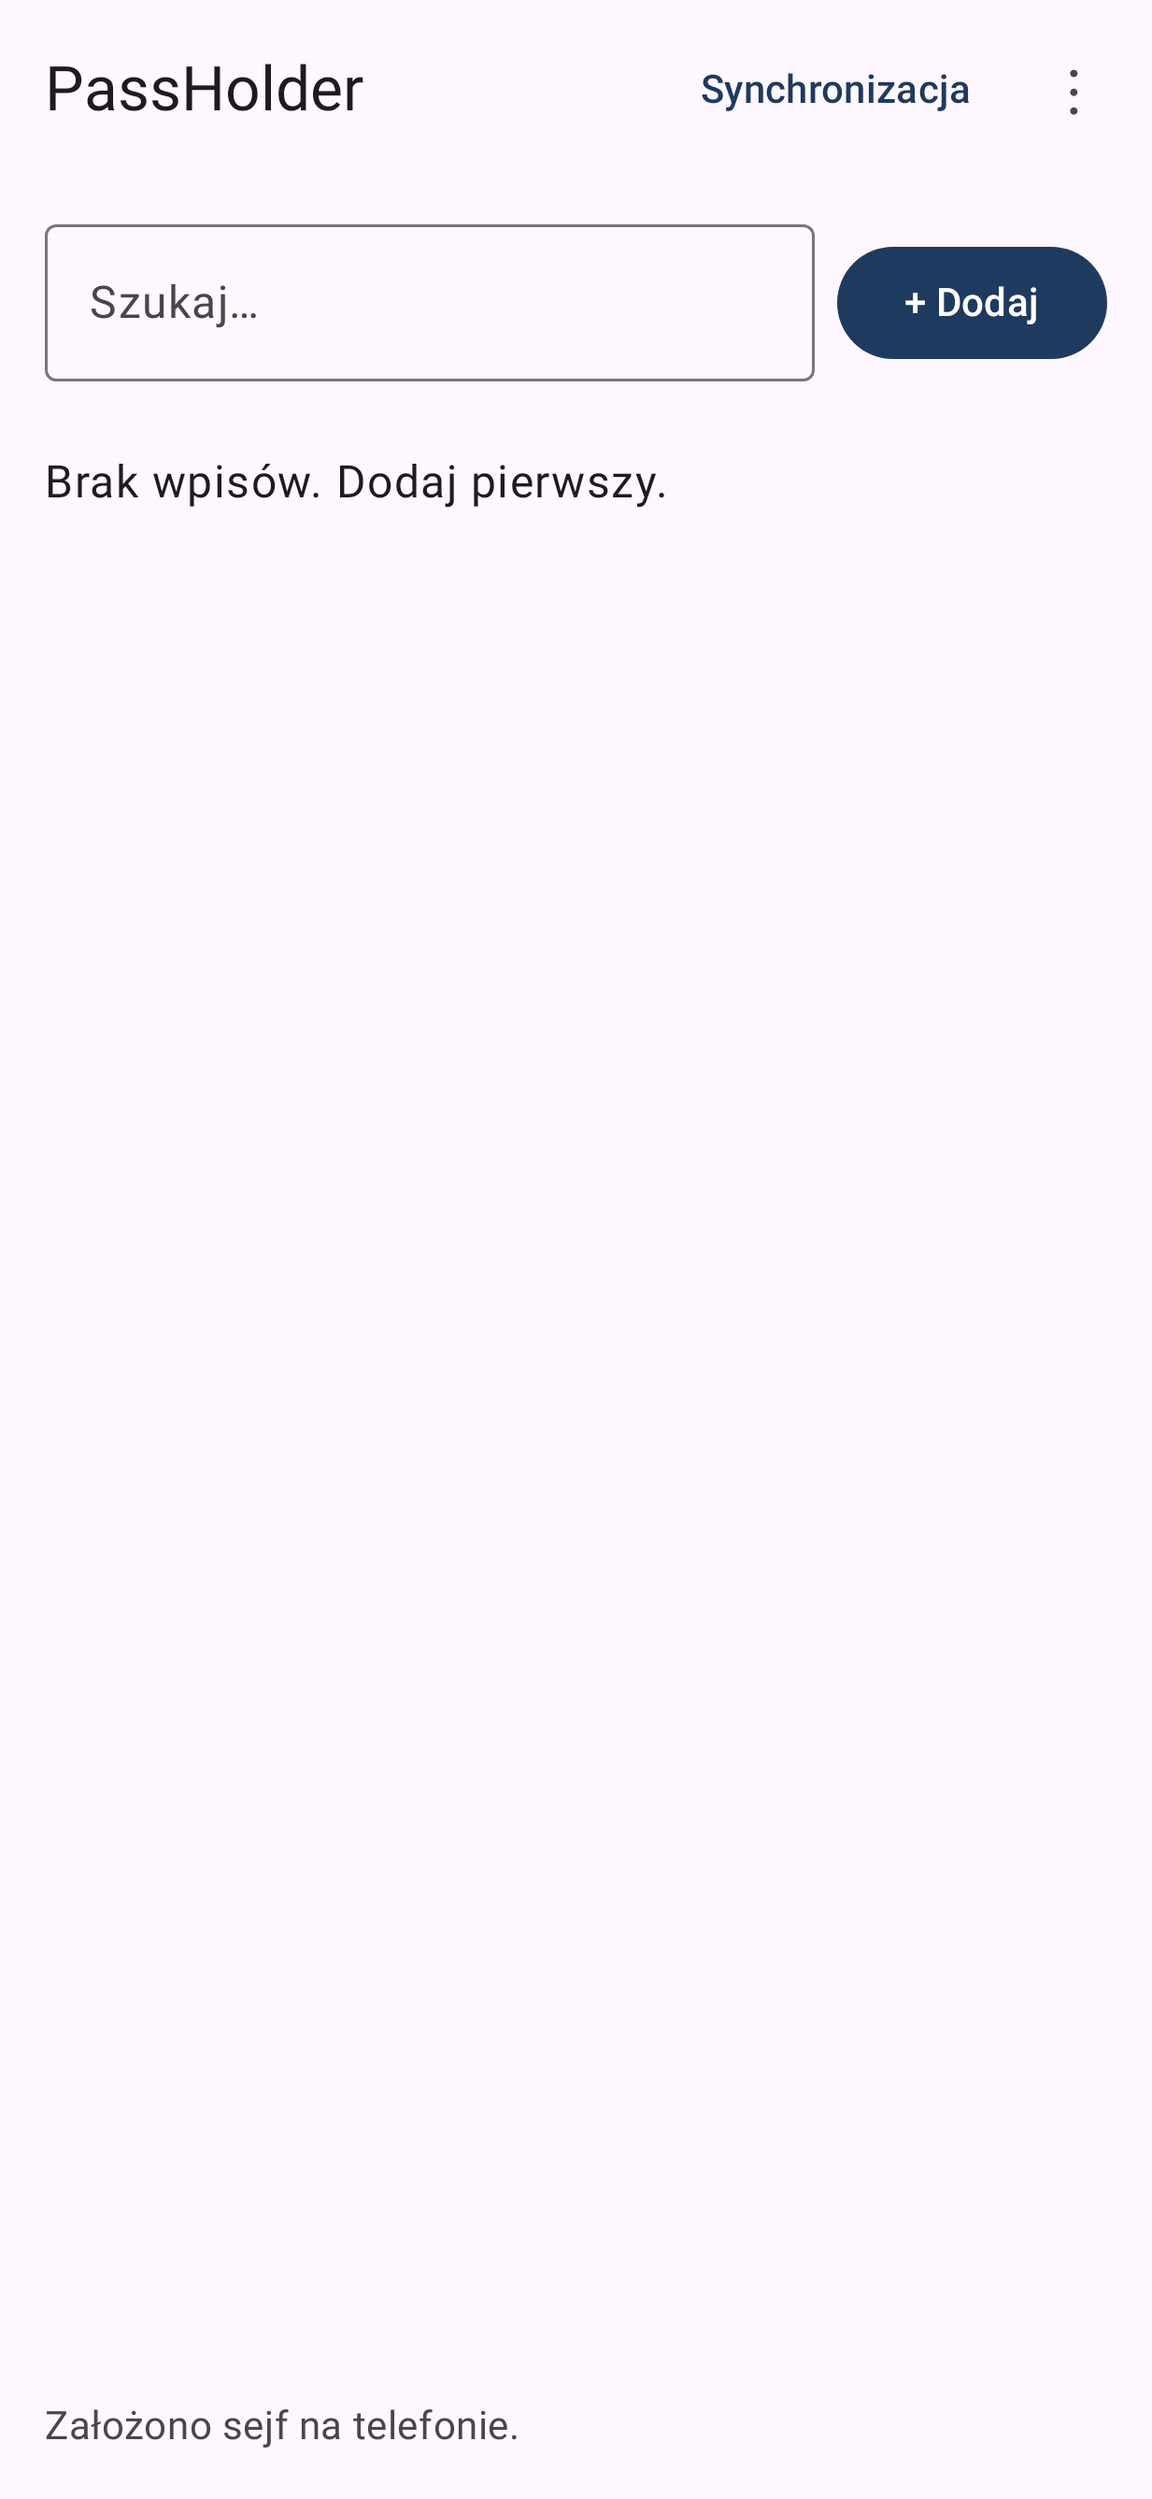
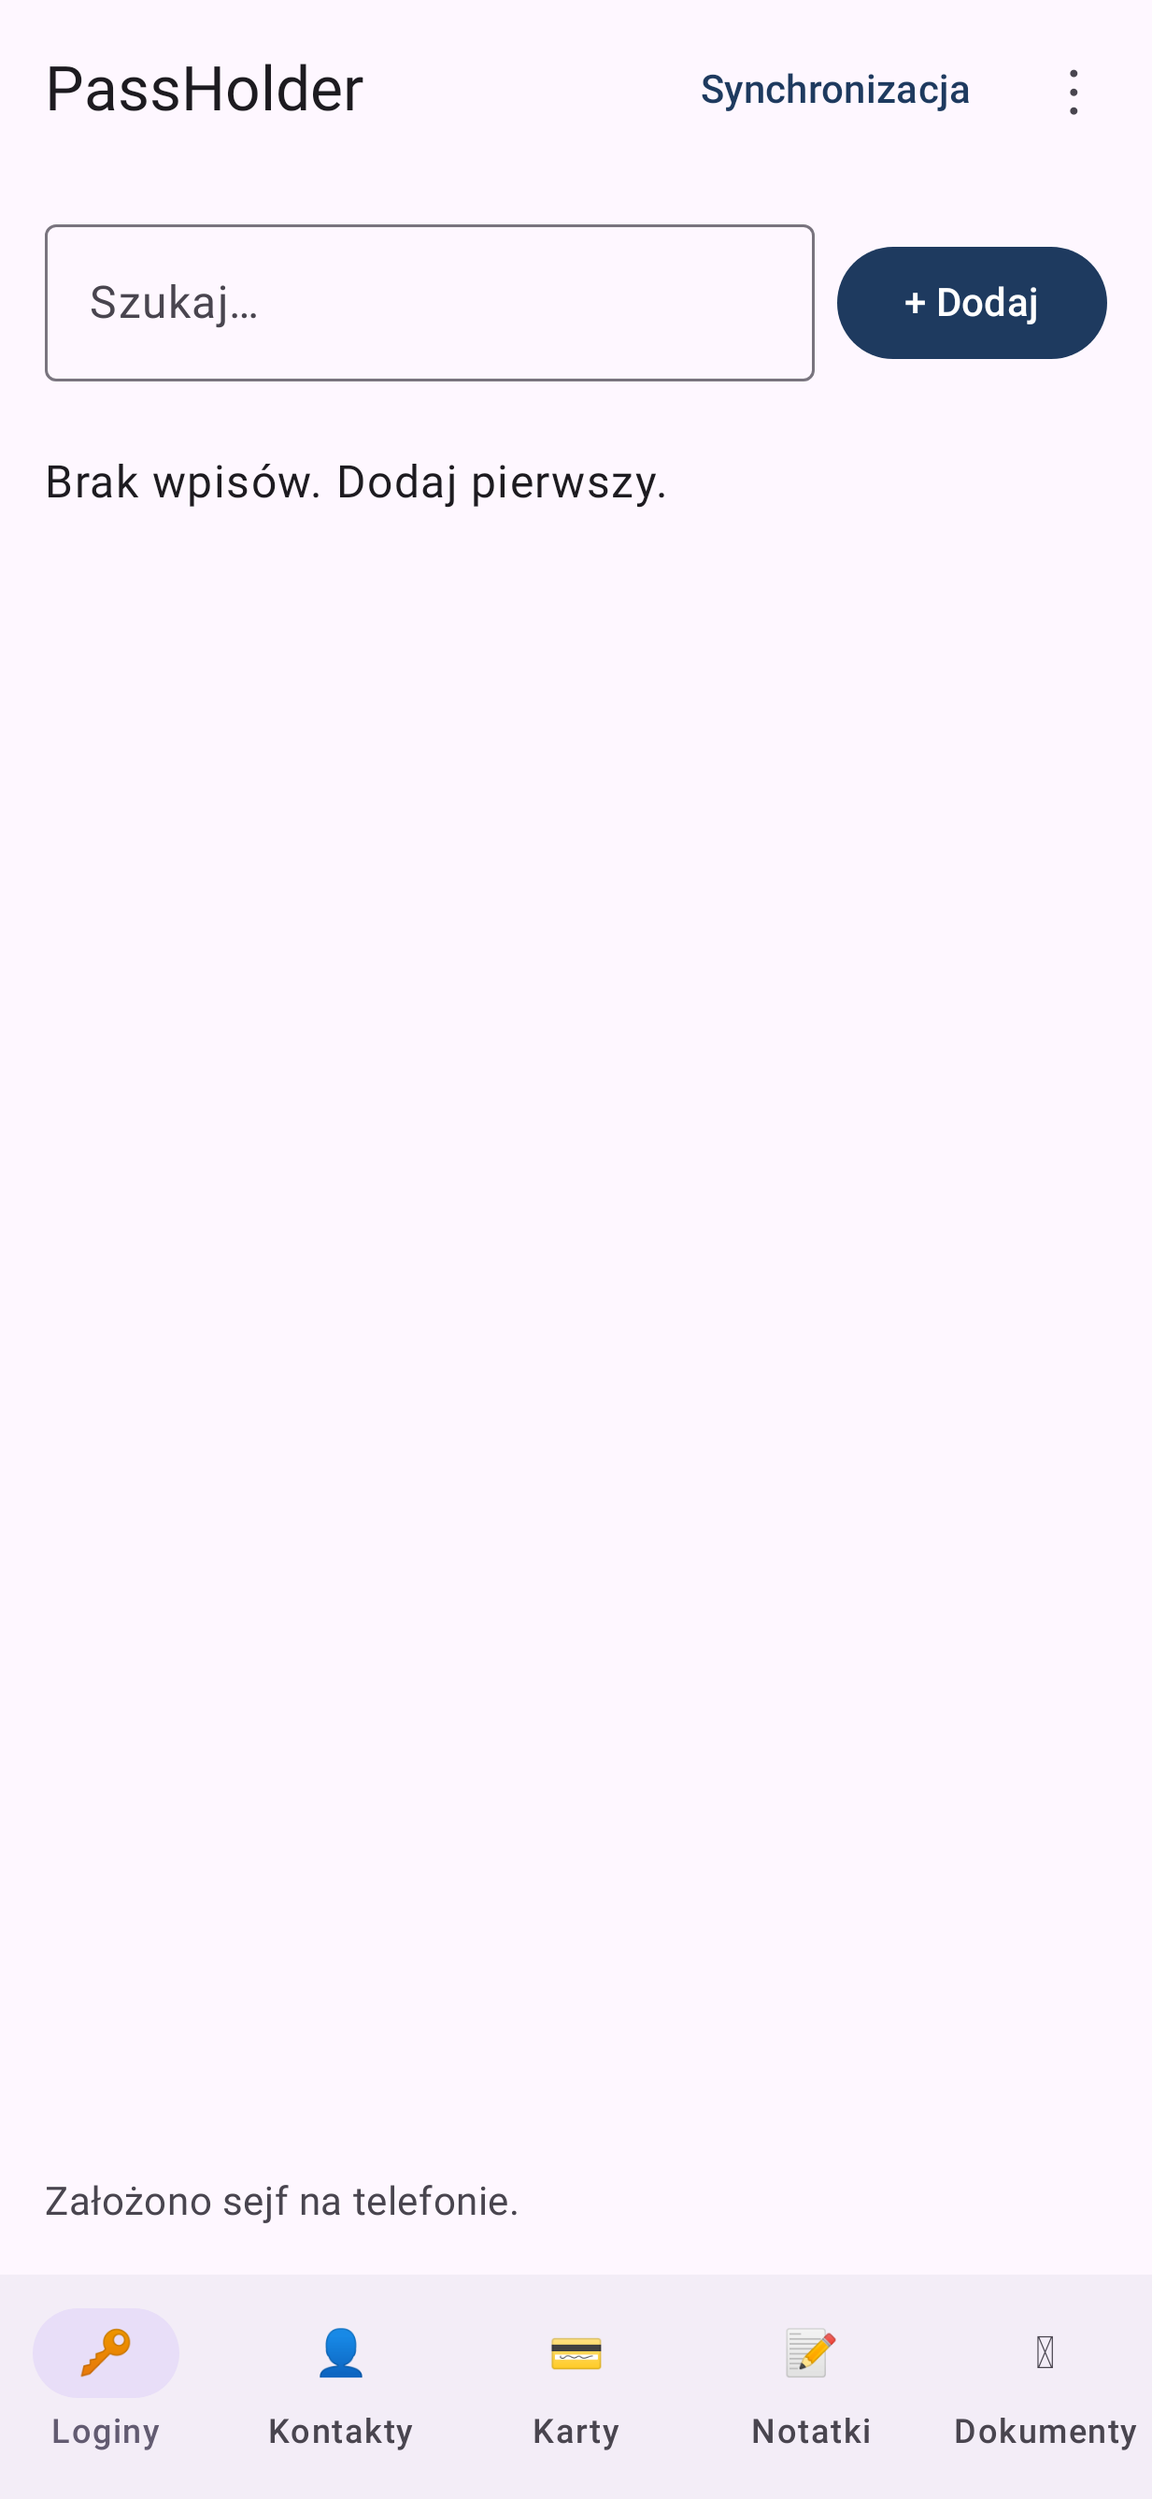
feat(android): bottom navigation tabs per entry type
Claude-Session: https://claude.ai/code/session_01R4dBa3xgA5GXwU78YGB8ca

diff --git a/android/app/src/main/kotlin/io/github/sheking94/passholder/app/ui/ListScreen.kt b/android/app/src/main/kotlin/io/github/sheking94/passholder/app/ui/ListScreen.kt
@@ -4,15 +4,17 @@ import androidx.compose.foundation.clickable
 import androidx.compose.foundation.layout.Arrangement
 import androidx.compose.foundation.layout.Column
 import androidx.compose.foundation.layout.Row
-import androidx.compose.foundation.layout.fillMaxSize
-import androidx.compose.foundation.layout.fillMaxWidth
+import androidx.compose.foundation.layout.WindowInsets
 import androidx.compose.foundation.layout.padding
 import androidx.compose.foundation.lazy.LazyColumn
 import androidx.compose.foundation.lazy.items
 import androidx.compose.material3.Button
 import androidx.compose.material3.HorizontalDivider
 import androidx.compose.material3.MaterialTheme
+import androidx.compose.material3.NavigationBar
+import androidx.compose.material3.NavigationBarItem
 import androidx.compose.material3.OutlinedTextField
+import androidx.compose.material3.Scaffold
 import androidx.compose.material3.Text
 import androidx.compose.material3.TextButton
 import androidx.compose.runtime.Composable
@@ -27,22 +29,38 @@ import androidx.compose.ui.unit.dp
 import io.github.sheking94.passholder.app.AppViewModel
 import io.github.sheking94.passholder.app.UiState
 import io.github.sheking94.passholder.app.entries.EntryType
-import io.github.sheking94.passholder.app.loginCredentials
+import io.github.sheking94.passholder.app.entries.entrySummary
+import io.github.sheking94.passholder.app.entries.matchesQuery
+import io.github.sheking94.passholder.core.p2p.LoginFields
 
 @Composable
 fun ListScreen(state: UiState, vm: AppViewModel) {
-    var query by rememberSaveable { mutableStateOf("") }
-    // Logins only for now; every type comes with the tabbed list.
-    val rows = state.entries.mapNotNull { e -> e.loginCredentials()?.let { e to it } }.filter { (_, c) ->
-        query.isBlank() || "${c.name} ${c.username}".contains(query.trim(), ignoreCase = true)
-    }
+    // The phrase belongs to the tab: changing tabs starts a fresh search.
+    var query by rememberSaveable(state.tab) { mutableStateOf("") }
+    val rows = state.entries.filter { EntryType.of(it.content.fields) == state.tab }
+        .filter { query.isBlank() || matchesQuery(it.content, query) }
 
-    Column(Modifier.fillMaxSize()) {
-        VaultTopBar(state, vm)
-        Column(Modifier.weight(1f).padding(16.dp), verticalArrangement = Arrangement.spacedBy(8.dp)) {
+    Scaffold(
+        topBar = { VaultTopBar(state, vm) },
+        bottomBar = {
+            // PassHolderUi already keeps every screen out of the system bars.
+            NavigationBar(windowInsets = WindowInsets(0)) {
+                EntryType.entries.forEach { type ->
+                    NavigationBarItem(
+                        selected = type == state.tab,
+                        onClick = { vm.selectTab(type) },
+                        icon = { Text(type.icon) },
+                        label = { Text(type.tab, maxLines = 1) },
+                    )
+                }
+            }
+        },
+        contentWindowInsets = WindowInsets(0),
+    ) { padding ->
+        Column(Modifier.padding(padding).padding(16.dp), verticalArrangement = Arrangement.spacedBy(8.dp)) {
             Row(verticalAlignment = Alignment.CenterVertically, horizontalArrangement = Arrangement.spacedBy(8.dp)) {
                 OutlinedTextField(query, { query = it }, placeholder = { Text("Szukaj…") }, singleLine = true, modifier = Modifier.weight(1f))
-                Button(onClick = { vm.newEntry(EntryType.LOGIN) }, enabled = !state.busy) { Text("+ Dodaj") }
+                Button(onClick = { vm.newEntry(state.tab) }, enabled = !state.busy) { Text("+ Dodaj") }
             }
             if (state.unreadable > 0) {
                 Text(
@@ -55,17 +73,22 @@ fun ListScreen(state: UiState, vm: AppViewModel) {
                 if (rows.isEmpty()) {
                     item { Text(if (query.isBlank()) "Brak wpisów. Dodaj pierwszy." else "Nic nie pasuje.", Modifier.padding(vertical = 16.dp)) }
                 }
-                items(rows, key = { it.first.id }) { (entry, c) ->
+                items(rows, key = { it.id }) { entry ->
+                    val login = entry.content.fields as? LoginFields
                     Row(
-                        Modifier.fillMaxWidth().clickable(enabled = !state.busy) { vm.openEntry(entry.id) }.padding(vertical = 8.dp),
+                        Modifier.clickable(enabled = !state.busy) { vm.openEntry(entry.id) }.padding(vertical = 8.dp),
                         verticalAlignment = Alignment.CenterVertically,
+                        horizontalArrangement = Arrangement.spacedBy(12.dp),
                     ) {
+                        Text(state.tab.icon, style = MaterialTheme.typography.titleLarge)
                         Column(Modifier.weight(1f)) {
-                            Text(c.name, style = MaterialTheme.typography.titleMedium, maxLines = 1, overflow = TextOverflow.Ellipsis)
-                            Text(c.username, style = MaterialTheme.typography.bodyMedium, maxLines = 1, overflow = TextOverflow.Ellipsis)
+                            Text(entry.content.name, style = MaterialTheme.typography.titleMedium, maxLines = 1, overflow = TextOverflow.Ellipsis)
+                            Text(entrySummary(entry.content), style = MaterialTheme.typography.bodyMedium, maxLines = 1, overflow = TextOverflow.Ellipsis)
                         }
-                        TextButton(onClick = { vm.copy("login", c.username, false) }) { Text("Login") }
-                        TextButton(onClick = { vm.copy("hasło", c.password, true) }) { Text("Hasło") }
+                        if (login != null) {
+                            TextButton(onClick = { vm.copy("login", login.username, false) }) { Text("Login") }
+                            TextButton(onClick = { vm.copy("hasło", login.password, true) }) { Text("Hasło") }
+                        }
                     }
                     HorizontalDivider()
                 }

diff --git a/android/app/src/test/kotlin/io/github/sheking94/passholder/app/ListTabsScreenTest.kt b/android/app/src/test/kotlin/io/github/sheking94/passholder/app/ListTabsScreenTest.kt
@@ -1,0 +1,67 @@
+package io.github.sheking94.passholder.app
+
+import io.github.sheking94.passholder.core.p2p.CardFields
+import io.github.sheking94.passholder.core.p2p.ContactFields
+import io.github.sheking94.passholder.core.p2p.DocumentFields
+import io.github.sheking94.passholder.core.p2p.DocumentKind
+import io.github.sheking94.passholder.core.p2p.EntryContentV3
+import io.github.sheking94.passholder.core.p2p.LabeledValue
+import io.github.sheking94.passholder.core.p2p.LoginFields
+import io.github.sheking94.passholder.core.p2p.NoteFields
+import androidx.compose.ui.test.performTextReplacement
+import org.junit.Assert.assertTrue
+import org.junit.Test
+
+class ListTabsScreenTest : ScreenTestBase() {
+    // The only text field on the list; its "Szukaj…" hint disappears once something is typed.
+    private val search get() = compose.onNode(androidx.compose.ui.test.hasSetTextAction())
+
+    @Test
+    fun `tabs show one type each, search is per tab, Dodaj opens a form of the tab's type`() {
+        createVault()
+        putEntry(EntryContentV3("bank.pl", "", LoginFields("jan", "pw"), emptyList()))
+        putEntry(EntryContentV3("Visa", "", CardFields("Jan", "4111111111111234", "", "", ""), emptyList()))
+        putEntry(EntryContentV3("Ala", "", ContactFields("Ala", "", "", listOf(LabeledValue("dom", "600 100 200")), emptyList(), emptyList()), emptyList()))
+        putEntry(EntryContentV3("Zakupy", "\nmleko\njajka", NoteFields, emptyList()))
+        putEntry(EntryContentV3("Paszport Jana", "", DocumentFields(DocumentKind.PASSPORT, "", "", "", "", ""), emptyList()))
+
+        // Logins first, and only logins.
+        waitFor("bank.pl")
+        assertTrue(gone("Visa") && gone("Ala") && gone("Zakupy") && gone("Paszport Jana"))
+        shot("31-zakladka-loginy")
+
+        click("Karty")
+        waitFor("•••• 1234")
+        assertTrue(gone("bank.pl"))
+        shot("32-zakladka-karty")
+        search.performTextReplacement("1234")
+        waitFor("Visa")
+        search.performTextReplacement("zzz")
+        waitFor("Nic nie pasuje.")
+        search.performTextReplacement("1234")
+
+        // A tab change clears the phrase.
+        click("Kontakty")
+        waitFor("600 100 200")
+        assertTrue(search.fetchSemanticsNode().config[androidx.compose.ui.semantics.SemanticsProperties.EditableText].text.isEmpty())
+        shot("33-zakladka-kontakty")
+        search.performTextReplacement("600")
+        waitFor("Ala")
+
+        click("Notatki")
+        waitFor("mleko")
+        shot("34-zakladka-notatki")
+        click("Dokumenty")
+        waitFor("Paszport", substring = true)
+        shot("35-zakladka-dokumenty")
+
+        // "+ Dodaj" opens a form of the tab's type; Anuluj returns to that tab.
+        click("Karty")
+        waitFor("Visa")
+        click("+ Dodaj")
+        waitFor("Nowa karta")
+        click("Anuluj")
+        waitFor("Visa")
+        assertTrue(gone("Nowa karta"))
+    }
+}

diff --git a/android/app/src/main/kotlin/io/github/sheking94/passholder/app/ui/EditScreen.kt b/android/app/src/main/kotlin/io/github/sheking94/passholder/app/ui/EditScreen.kt
@@ -44,9 +44,25 @@ private val GROUP_LABELS = mapOf(
     CharacterGroup.SYMBOLS to "symbole",
 )
 
+@Composable
+fun EditScreen(id: String?, type: EntryType, state: UiState, vm: AppViewModel) {
+    if (type == EntryType.LOGIN) LoginEditScreen(id, state, vm) else EditShell(type, id, state, vm)
+}
+
+/** Placeholder until the typed forms: the title and "Anuluj", nothing that could mangle the entry. */
+@Composable
+private fun EditShell(type: EntryType, id: String?, state: UiState, vm: AppViewModel) {
+    BackHandler(onBack = vm::backToList)
+    FormColumn {
+        Text(if (id == null) type.newTitle else type.editTitle, style = MaterialTheme.typography.headlineSmall)
+        OutlinedButton(onClick = vm::backToList, enabled = !state.busy) { Text("Anuluj") }
+        StatusLine(state.status, state.busy)
+    }
+}
+
 @OptIn(ExperimentalLayoutApi::class)
 @Composable
-fun EditScreen(id: String?, state: UiState, vm: AppViewModel) {
+private fun LoginEditScreen(id: String?, state: UiState, vm: AppViewModel) {
     // Read from the store when the entry was opened (AppViewModel.openEntry), not from the list on screen.
     val original = remember(id) { state.editing?.takeIf { it.id == id }?.content }
     val existing = remember(id) { state.editing?.takeIf { it.id == id }?.loginCredentials() }

diff --git a/android/app/src/test/kotlin/io/github/sheking94/passholder/app/ScreenTests.kt b/android/app/src/test/kotlin/io/github/sheking94/passholder/app/ScreenTests.kt
@@ -20,6 +20,7 @@ import androidx.work.testing.WorkManagerTestInitHelper
 import com.github.takahirom.roborazzi.captureRoboImage
 import io.github.sheking94.passholder.core.Credentials
 import io.github.sheking94.passholder.core.RemoteRecord
+import io.github.sheking94.passholder.core.p2p.EntryContentV3
 import io.github.sheking94.passholder.core.p2p.FileSyncStore
 import io.github.sheking94.passholder.core.p2p.PhoneVaultStore
 import io.github.sheking94.passholder.core.p2p.SecretWrapper
@@ -139,6 +140,15 @@ abstract class ScreenTestBase {
         type("Powtórz hasło główne", masterPassword)
         click("Załóż sejf")
         waitFor("Brak wpisów. Dodaj pierwszy.")
+    }
+
+    /** Writes an entry of any type straight into the store and refreshes the list. */
+    protected fun putEntry(content: EntryContentV3): String {
+        val id = java.util.UUID.randomUUID().toString()
+        ApplicationProvider.getApplicationContext<PassHolderApp>().phoneStore.upsertContent(id, content)
+        viewModel().reloadEntries()
+        compose.waitForIdle()
+        return id
     }
 
     protected fun addEntry(name: String, login: String, password: String?) {

diff --git a/android/app/src/main/kotlin/io/github/sheking94/passholder/app/ui/VaultTopBar.kt b/android/app/src/main/kotlin/io/github/sheking94/passholder/app/ui/VaultTopBar.kt
@@ -37,9 +37,9 @@ fun VaultTopBar(state: UiState, vm: AppViewModel) {
                     Text("⋮", style = MaterialTheme.typography.titleLarge)
                 }
                 DropdownMenu(expanded = menuOpen, onDismissRequest = { menuOpen = false }) {
-                    DropdownMenuItem(text = { Text("Urządzenia") }, onClick = { menuOpen = false; vm.openDevices() })
-                    DropdownMenuItem(text = { Text("Ustawienia") }, onClick = { menuOpen = false; vm.openSettings() })
-                    DropdownMenuItem(text = { Text("Zablokuj") }, onClick = { menuOpen = false; vm.lock() })
+                    DropdownMenuItem(text = { Text("Urządzenia") }, enabled = !state.busy, onClick = { menuOpen = false; vm.openDevices() })
+                    DropdownMenuItem(text = { Text("Ustawienia") }, enabled = !state.busy, onClick = { menuOpen = false; vm.openSettings() })
+                    DropdownMenuItem(text = { Text("Zablokuj") }, enabled = !state.busy, onClick = { menuOpen = false; vm.lock() })
                 }
             }
         },

diff --git a/android/app/src/test/kotlin/io/github/sheking94/passholder/app/SettingsScreenTests.kt b/android/app/src/test/kotlin/io/github/sheking94/passholder/app/SettingsScreenTests.kt
@@ -52,10 +52,11 @@ class SettingsScreenTest : ScreenTestBase() {
         compose.runOnIdle { vm.selectTab(EntryType.CARD) }
         assertEquals(EntryType.CARD, vm.state.value.tab)
         click("+ Dodaj")
-        type("Nazwa serwisu", "tajny-serwis.pl")
+        // Only the title for now: the typed forms arrive with task 5.
+        waitFor("Nowa karta")
         compose.runOnIdle { vm.lock() }
         waitFor("PassHolder jest zablokowany")
-        assertTrue(gone("tajny-serwis.pl"))
+        assertTrue(gone("Nowa karta"))
         unlock()
         waitFor("Brak wpisów. Dodaj pierwszy.")
         val state = vm.state.value
@@ -63,7 +64,7 @@ class SettingsScreenTest : ScreenTestBase() {
         assertEquals(EntryType.LOGIN, state.tab)
         assertNull(state.status)
         assertNull(state.editing)
-        assertTrue(gone("tajny-serwis.pl"))
+        assertTrue(gone("Nowa karta"))
 
         // The form starts empty again.
         click("+ Dodaj")

diff --git a/android/app/src/main/kotlin/io/github/sheking94/passholder/app/ui/PassHolderUi.kt b/android/app/src/main/kotlin/io/github/sheking94/passholder/app/ui/PassHolderUi.kt
@@ -22,7 +22,7 @@ fun PassHolderUi(viewModel: AppViewModel) {
                     Screen.Start -> StartScreen(state, viewModel)
                     Screen.Locked -> LockedScreen(state, viewModel)
                     Screen.List -> ListScreen(state, viewModel)
-                    is Screen.Edit -> EditScreen(screen.id, state, viewModel)
+                    is Screen.Edit -> EditScreen(screen.id, screen.type, state, viewModel)
                     Screen.Settings -> SettingsScreen(state, viewModel)
                     Screen.Sync -> SyncScreen(state, viewModel)
                     Screen.Devices -> DevicesScreen(state, viewModel)

diff --git a/android/app/src/test/kotlin/io/github/sheking94/passholder/app/BiometricScreenTests.kt b/android/app/src/test/kotlin/io/github/sheking94/passholder/app/BiometricScreenTests.kt
@@ -241,7 +241,12 @@ class LockDelayTest : BiometricTestBase() {
     fun `with the delay on, a short trip keeps the vault and the form, after 60 s it locks`() {
         createVaultWithFingerprint()
         assertEquals(1, finger.shown)
+        // The lock-delay switch lives in Settings.
+        menu("Ustawienia")
+        waitFor("Blokuj dopiero po 60 s poza aplikacją")
         shot("18-opoznienie-blokady")
+        click("Wróć")
+        waitFor("bank.pl")
 
         // Half-filled form, then out to another app for 30 s.
         click("+ Dodaj")

diff --git a/android/app/src/main/kotlin/io/github/sheking94/passholder/app/AppViewModel.kt b/android/app/src/main/kotlin/io/github/sheking94/passholder/app/AppViewModel.kt
@@ -306,6 +306,11 @@ class AppViewModel(application: Application) : AndroidViewModel(application) {
 
     // --- Entries ----------------------------------------------------------------------------------
 
+    /** Re-reads the entries from the store (after a change made outside the screens). */
+    fun reloadEntries() {
+        viewModelScope.launch { refresh() }
+    }
+
     fun selectTab(type: EntryType) = _state.update { it.copy(tab = type) }
 
     /** "+ Dodaj": an empty form for an entry of [type]. */
